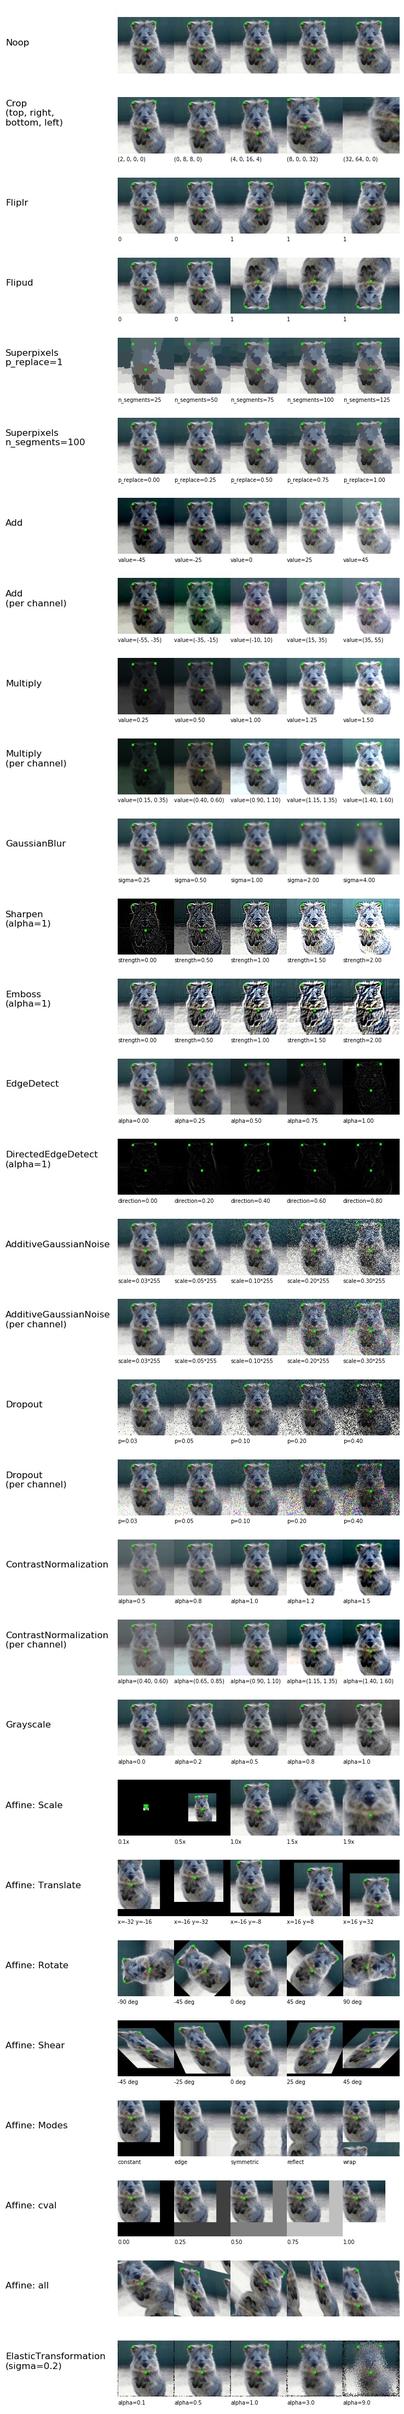
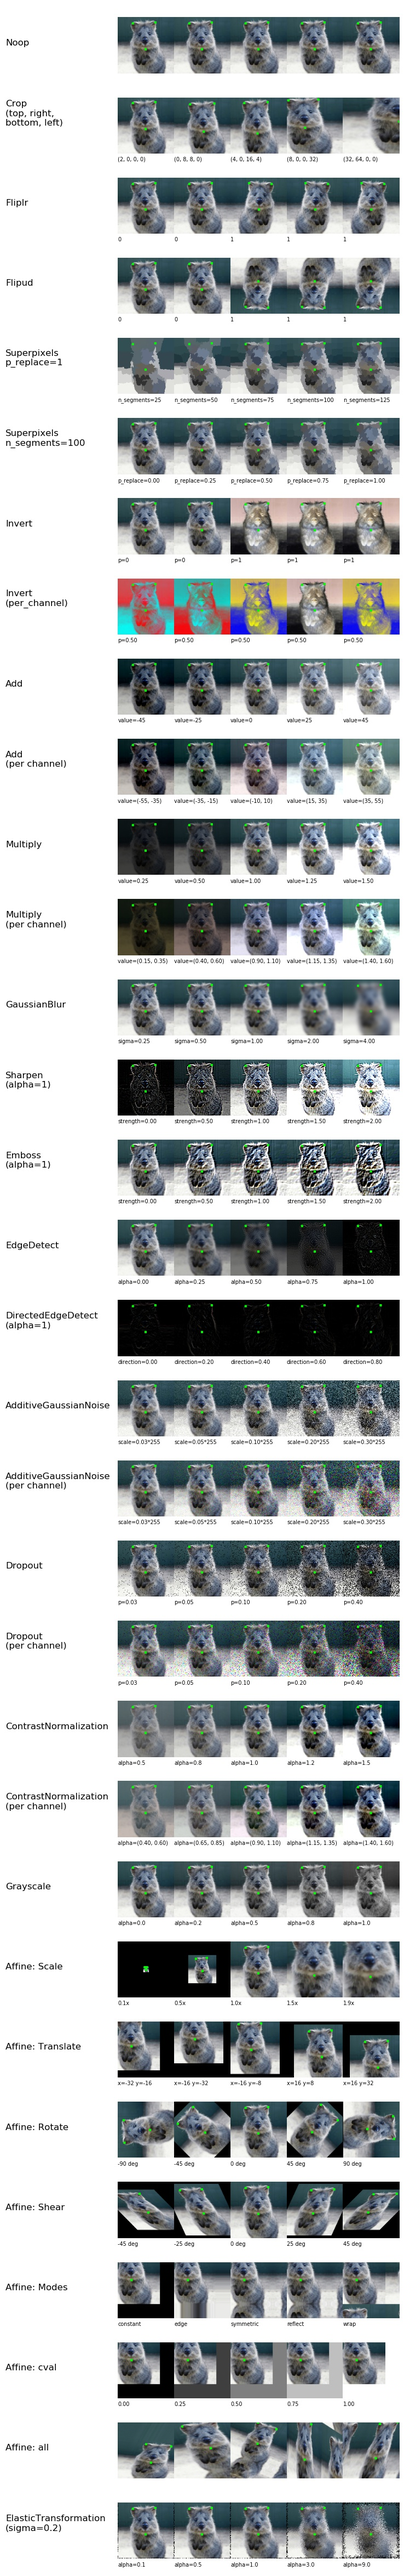
Add Invert augmenter

diff --git a/imgaug/augmenters.py b/imgaug/augmenters.py
@@ -15,6 +15,16 @@ import six
 import six.moves as sm
 import types
 
+"""
+TODOs
+    - check if all get_parameters() implementations really return all parameters.
+    - Add Alpha augmenter
+    - Add WithChannels augmenter
+    - Add SpatialDropout augmenter
+    - Add CoarseDropout shortcut function
+    - Add Hue and Saturation augmenters
+"""
+
 @six.add_metaclass(ABCMeta)
 class Augmenter(object):
     """Base class for Augmenter objects
@@ -2009,6 +2019,97 @@ def Dropout(p=0, per_channel=False, name=None, deterministic=False,
         raise Exception("Expected p to be float or int or StochasticParameter, got %s." % (type(p),))
     return MultiplyElementwise(p2, per_channel=per_channel, name=name, deterministic=deterministic, random_state=random_state)
 
+# TODO tests
+class Invert(Augmenter):
+    """Augmenter that inverts all values in images.
+
+    For the standard value range of 0-255 it converts 0 to 255, 255 to 0
+    and 10 to (255-10)=245.
+
+    Let M be the maximum value possible, m the minimum value possible,
+    v a value. Then the distance of v to m is d=abs(v-m) and the new value
+    is given by v'=M-d.
+
+    Parameters
+    ----------
+    min_value : TODO
+
+    max_value : TODO
+
+    per_channel : boolean, optional(default=False)
+        apply transform in a per channel manner
+
+    name : string, optional(default=None)
+        name of the instance
+
+    deterministic : boolean, optional (default=False)
+        Whether random state will be saved before augmenting images
+        and then will be reset to the saved value post augmentation
+        use this parameter to obtain transformations in the EXACT order
+        everytime
+
+    random_state : int, RandomState instance or None, optional (default=None)
+        If int, random_state is the seed used by the random number generator;
+        If RandomState instance, random_state is the random number generator;
+        If None, the random number generator is the RandomState instance used
+        by `np.random`.
+    """
+    def __init__(self, p=0, per_channel=False, min_value=0, max_value=255, name=None,
+                 deterministic=False, random_state=None):
+        super(Invert, self).__init__(name=name, deterministic=deterministic, random_state=random_state)
+
+        if ia.is_single_number(p):
+            self.p = Binomial(p)
+        elif isinstance(p, StochasticParameter):
+            self.p = p
+        else:
+            raise Exception("Expected p to be int or float or StochasticParameter, got %s." % (type(p),))
+
+        if per_channel in [True, False, 0, 1, 0.0, 1.0]:
+            self.per_channel = Deterministic(int(per_channel))
+        elif ia.is_single_number(per_channel):
+            assert 0 <= per_channel <= 1.0
+            self.per_channel = Binomial(per_channel)
+        else:
+            raise Exception("Expected per_channel to be boolean or number or StochasticParameter")
+
+        self.min_value = min_value
+        self.max_value = max_value
+
+    def _augment_images(self, images, random_state, parents, hooks):
+        result = images
+        nb_images = len(images)
+        seeds = random_state.randint(0, 10**6, (nb_images,))
+        for i in sm.xrange(nb_images):
+            image = images[i].astype(np.int32)
+            rs_image = ia.new_random_state(seeds[i])
+            per_channel = self.per_channel.draw_sample(random_state=rs_image)
+            if per_channel == 1:
+                nb_channels = image.shape[2]
+                p_samples = self.p.draw_samples((nb_channels,), random_state=rs_image)
+                for c, p_sample in enumerate(p_samples):
+                    assert 0 <= p_sample <= 1
+                    if p_sample > 0.5:
+                        image_c = image[..., c]
+                        distance_from_min = np.abs(image_c - self.min_value) # d=abs(v-m)
+                        image[..., c] = -distance_from_min + self.max_value # v'=M-d
+                np.clip(image, 0, 255, out=image)
+                result[i] = image.astype(np.uint8)
+            else:
+                p_sample = self.p.draw_sample(random_state=rs_image)
+                assert 0 <= p_sample <= 1.0
+                if p_sample > 0.5:
+                    distance_from_min = np.abs(image - self.min_value) # d=abs(v-m)
+                    image = -distance_from_min + self.max_value
+                    np.clip(image, 0, 255, out=image)
+                    result[i] = image.astype(np.uint8)
+        return result
+
+    def _augment_keypoints(self, keypoints_on_images, random_state, parents, hooks):
+        return keypoints_on_images
+
+    def get_parameters(self):
+        return [self.p, self.per_channel, self.min_value, self.max_value]
 
 # TODO tests
 class Add(Augmenter):

diff --git a/generate_example_images.py b/generate_example_images.py
@@ -18,7 +18,7 @@ def main():
 def draw_single_sequential_images():
     image = misc.imresize(ndimage.imread("quokka.jpg")[0:643, 0:643], (128, 128))
 
-    st = lambda aug: iaa.Sometimes(0.4, aug)
+    st = lambda aug: iaa.Sometimes(0.3, aug)
 
     seq = iaa.Sequential([
             iaa.Fliplr(0.5),
@@ -34,6 +34,7 @@ def draw_single_sequential_images():
             )),
             st(iaa.AdditiveGaussianNoise(loc=0, scale=(0.0, 0.05*255), per_channel=0.5)),
             st(iaa.Dropout((0.0, 0.1), per_channel=0.5)),
+            st(iaa.Invert(0.25, per_channel=True)),
             st(iaa.Add((-10, 10), per_channel=0.5)),
             st(iaa.Multiply((0.5, 1.5), per_channel=0.5)),
             st(iaa.ContrastNormalization((0.5, 2.0), per_channel=0.5)),
@@ -74,6 +75,8 @@ def draw_per_augmenter_images():
         ("Flipud", [(str(p), iaa.Flipud(p)) for p in [0, 0, 1, 1, 1]]),
         ("Superpixels\np_replace=1", [("n_segments=%d" % (n_segments,), iaa.Superpixels(p_replace=1.0, n_segments=n_segments)) for n_segments in [25, 50, 75, 100, 125]]),
         ("Superpixels\nn_segments=100", [("p_replace=%.2f" % (p_replace,), iaa.Superpixels(p_replace=p_replace, n_segments=100)) for p_replace in [0, 0.25, 0.5, 0.75, 1.0]]),
+        ("Invert", [("p=%d" % (p,), iaa.Invert(p=p)) for p in [0, 0, 1, 1, 1]]),
+        ("Invert\n(per_channel)", [("p=%.2f" % (p,), iaa.Invert(p=p, per_channel=True)) for p in [0.5, 0.5, 0.5, 0.5, 0.5]]),
         ("Add", [("value=%d" % (val,), iaa.Add(val)) for val in [-45, -25, 0, 25, 45]]),
         ("Add\n(per channel)", [("value=(%d, %d)" % (vals[0], vals[1],), iaa.Add(vals, per_channel=True)) for vals in [(-55, -35), (-35, -15), (-10, 10), (15, 35), (35, 55)]]),
         ("Multiply", [("value=%.2f" % (val,), iaa.Multiply(val)) for val in [0.25, 0.5, 1.0, 1.25, 1.5]]),

diff --git a/tests/check_visually.py b/tests/check_visually.py
@@ -28,6 +28,7 @@ def main():
         iaa.Crop(percent=(0, 0.1), name="Crop-percent"),
         iaa.Fliplr(0.5, name="Fliplr"),
         iaa.Flipud(0.5, name="Flipud"),
+        iaa.Superpixels(p_replace=0.75, n_segments=50, name="Superpixels"),
         iaa.Grayscale(0.5, name="Grayscale0.5"),
         iaa.Grayscale(1.0, name="Grayscale1.0"),
         iaa.GaussianBlur((0, 3.0), name="GaussianBlur"),
@@ -37,7 +38,14 @@ def main():
         iaa.DirectedEdgeDetect(alpha=(0.1, 1.0), direction=(0, 1.0), name="DirectedEdgeDetect"),
         iaa.AdditiveGaussianNoise(loc=0, scale=(0.0, 0.1*255), name="AdditiveGaussianNoise"),
         iaa.Dropout((0.0, 0.1), name="Dropout"),
+        iaa.Invert(p=0.5, name="Invert"),
+        iaa.Invert(p=0.5, per_channel=True, name="InvertPerChannel"),
+        iaa.Add((-50, 50), name="Add"),
+        iaa.Add((-50, 50), per_channel=True, name="AddPerChannel"),
+        iaa.AddElementwise((-50, 50), name="AddElementwise"),
         iaa.Multiply((0.5, 1.5), name="Multiply"),
+        iaa.Multiply((0.5, 1.5), per_channel=True, name="MultiplyPerChannel"),
+        iaa.MultiplyElementwise((0.5, 1.5), name="MultiplyElementwise"),
         iaa.ContrastNormalization(alpha=(0.5, 2.0), name="ContrastNormalization"),
         iaa.Affine(
             scale={"x": (0.8, 1.2), "y": (0.8, 1.2)},

diff --git a/README.md b/README.md
@@ -70,7 +70,7 @@ images = np.random.randint(0, 255, (16, 128, 128, 3), dtype=np.uint8)
 
 # Sometimes(0.5, ...) applies the given augmenter in 50% of all cases,
 # e.g. Sometimes(0.5, GaussianBlur(0.3)) would blur roughly every second image.
-st = lambda aug: iaa.Sometimes(0.5, aug)
+st = lambda aug: iaa.Sometimes(0.3, aug)
 
 # Define our sequence of augmentation steps that will be applied to every image
 # All augmenters with per_channel=0.5 will sample one value _per image_
@@ -79,10 +79,19 @@ st = lambda aug: iaa.Sometimes(0.5, aug)
 seq = iaa.Sequential([
         iaa.Fliplr(0.5), # horizontally flip 50% of all images
         iaa.Flipud(0.5), # vertically flip 50% of all images
+        st(iaa.Superpixels(p_replace=(0, 1.0), n_segments=(20, 200))), # convert images into their superpixel representation
         st(iaa.Crop(percent=(0, 0.1))), # crop images by 0-10% of their height/width
         st(iaa.GaussianBlur((0, 3.0))), # blur images with a sigma between 0 and 3.0
+        st(iaa.Sharpen(alpha=(0, 1.0), strength=(0.75, 1.5))), # sharpen images
+        st(iaa.Emboss(alpha=(0, 1.0), strength=(0, 2.0))), # emboss images
+        # search either for all edges or for directed edges
+        st(iaa.Sometimes(0.5,
+            iaa.EdgeDetect(alpha=(0, 0.7)),
+            iaa.DirectedEdgeDetect(alpha=(0, 0.7), direction=(0.0, 1.0)),
+        )),
         st(iaa.AdditiveGaussianNoise(loc=0, scale=(0.0, 0.2), per_channel=0.5)), # add gaussian noise to images
         st(iaa.Dropout((0.0, 0.1), per_channel=0.5)), # randomly remove up to 10% of the pixels
+        st(iaa.Invert(0.25, per_channel=True)), # invert color channels
         st(iaa.Add((-10, 10), per_channel=0.5)), # change brightness of images (by -10 to 10 of original value)
         st(iaa.Multiply((0.5, 1.5), per_channel=0.5)), # change brightness of images (50-150% of original value)
         st(iaa.ContrastNormalization((0.5, 2.0), per_channel=0.5)), # improve or worsen the contrast
